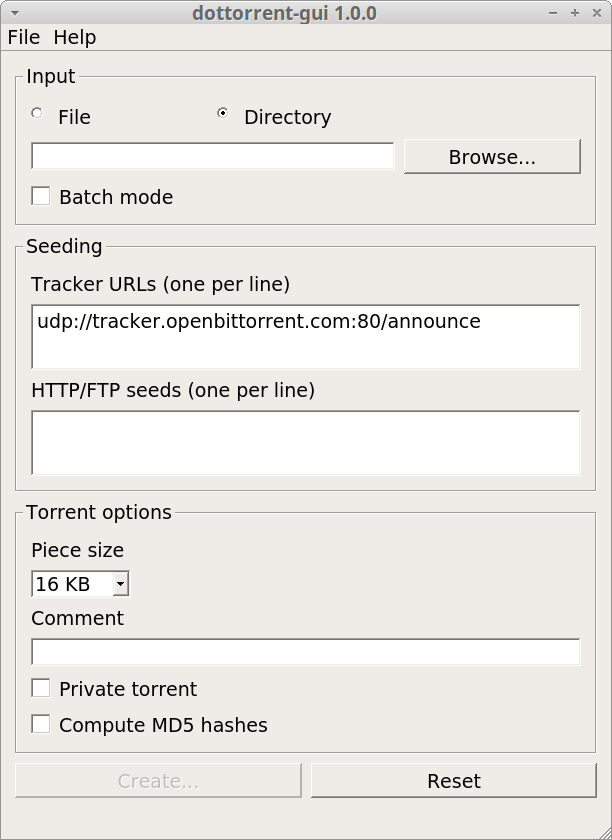
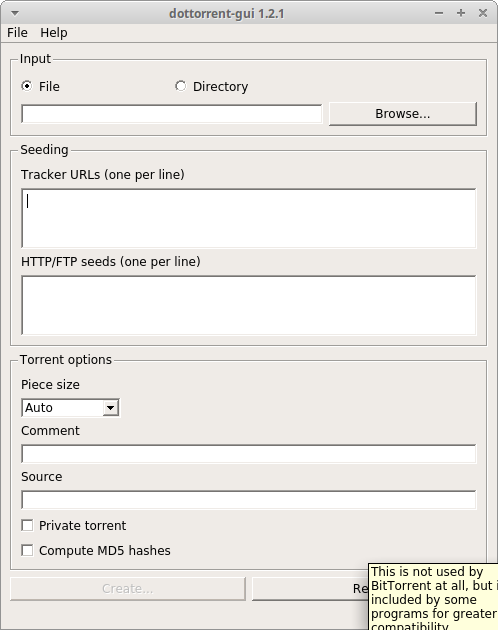
Version 1.2.1

Changed region(s): [[0.0, 0.0, 1.0, 1.0]]

diff --git a/dottorrentGUI/ui_about.py b/dottorrentGUI/ui_about.py
@@ -12,12 +12,13 @@ class Ui_AboutDialog(object):
     def setupUi(self, AboutDialog):
         AboutDialog.setObjectName("AboutDialog")
         AboutDialog.setWindowModality(QtCore.Qt.WindowModal)
-        AboutDialog.resize(567, 356)
+        AboutDialog.resize(567, 253)
         sizePolicy = QtWidgets.QSizePolicy(QtWidgets.QSizePolicy.Preferred, QtWidgets.QSizePolicy.Preferred)
         sizePolicy.setHorizontalStretch(0)
         sizePolicy.setVerticalStretch(0)
         sizePolicy.setHeightForWidth(AboutDialog.sizePolicy().hasHeightForWidth())
         AboutDialog.setSizePolicy(sizePolicy)
+        AboutDialog.setMinimumSize(QtCore.QSize(567, 253))
         self.verticalLayout = QtWidgets.QVBoxLayout(AboutDialog)
         self.verticalLayout.setObjectName("verticalLayout")
         self.programNameLabel = QtWidgets.QLabel(AboutDialog)
@@ -67,14 +68,4 @@ class Ui_AboutDialog(object):
         self.programVersionLabel.setText(_translate("AboutDialog", "PROGRAM_VERSION"))
         self.dtVersionLabel.setText(_translate("AboutDialog", "DOTTORRENT_VERSION"))
         self.infoLabel.setText(_translate("AboutDialog", "<html><head/><body><p><span style=\" font-size:10pt;\">© 2016 Kevin Zhang</span></p><p><span style=\" font-size:10pt;\">dottorrent-gui is made available under the terms of the </span><a href=\"http://choosealicense.com/licenses/gpl-3.0/\"><span style=\" font-size:10pt; text-decoration: underline; color:#0000ff;\">GNU General Public License, version 3</span></a><span style=\" font-size:10pt;\">.</span></p><p><a href=\"https://github.com/kz26/dottorrent-gui\"><span style=\" font-size:10pt; text-decoration: underline; color:#0000ff;\">https://github.com/kz26/dottorrent-gui</span></a></p></body></html>"))
-
-
-if __name__ == "__main__":
-    import sys
-    app = QtWidgets.QApplication(sys.argv)
-    AboutDialog = QtWidgets.QDialog()
-    ui = Ui_AboutDialog()
-    ui.setupUi(AboutDialog)
-    AboutDialog.show()
-    sys.exit(app.exec_())
 

diff --git a/dottorrentGUI/ui_mainwindow.py b/dottorrentGUI/ui_mainwindow.py
@@ -11,7 +11,7 @@ from PyQt5 import QtCore, QtGui, QtWidgets
 class Ui_MainWindow(object):
     def setupUi(self, MainWindow):
         MainWindow.setObjectName("MainWindow")
-        MainWindow.resize(496, 1007)
+        MainWindow.resize(496, 768)
         self.centralwidget = QtWidgets.QWidget(MainWindow)
         self.centralwidget.setObjectName("centralwidget")
         self.verticalLayout = QtWidgets.QVBoxLayout(self.centralwidget)
@@ -46,12 +46,14 @@ class Ui_MainWindow(object):
         self.trackerLabel.setObjectName("trackerLabel")
         self.verticalLayout_2.addWidget(self.trackerLabel)
         self.trackerEdit = QtWidgets.QPlainTextEdit(self.seedingGroupBox)
+        self.trackerEdit.setSizeAdjustPolicy(QtWidgets.QAbstractScrollArea.AdjustToContents)
         self.trackerEdit.setObjectName("trackerEdit")
         self.verticalLayout_2.addWidget(self.trackerEdit)
         self.webSeedLabel = QtWidgets.QLabel(self.seedingGroupBox)
         self.webSeedLabel.setObjectName("webSeedLabel")
         self.verticalLayout_2.addWidget(self.webSeedLabel)
         self.webSeedEdit = QtWidgets.QPlainTextEdit(self.seedingGroupBox)
+        self.webSeedEdit.setSizeAdjustPolicy(QtWidgets.QAbstractScrollArea.AdjustToContents)
         self.webSeedEdit.setObjectName("webSeedEdit")
         self.verticalLayout_2.addWidget(self.webSeedEdit)
         self.verticalLayout.addWidget(self.seedingGroupBox)

diff --git a/dottorrentGUI/gui.py b/dottorrentGUI/gui.py
@@ -433,7 +433,7 @@ class DottorrentGUI(Ui_MainWindow):
             trackers = data.get('trackers', [])
             web_seeds = data.get('web_seeds', [])
             private = data.get('private', False)
-            source = data.get('source', [])
+            source = data.get('source', '')
             try:
                 ts = os.linesep.join(trackers)
                 self.trackerEdit.setPlainText(ts)

diff --git a/dottorrentGUI/version.py b/dottorrentGUI/version.py
@@ -1,1 +1,1 @@
-__version__ = '1.2.0'
+__version__ = '1.2.1'

diff --git a/CHANGELOG.rst b/CHANGELOG.rst
@@ -1,6 +1,12 @@
 Changelog
 =========
 
+1.2.1
+-----
+* [CHANGE] Update file menu item text 
+* [FIX] error when importing source string from tracker configuration file
+* [FIX] Tweak default window sizing
+
 1.2.0
 -----
 * Add optinal source string field
